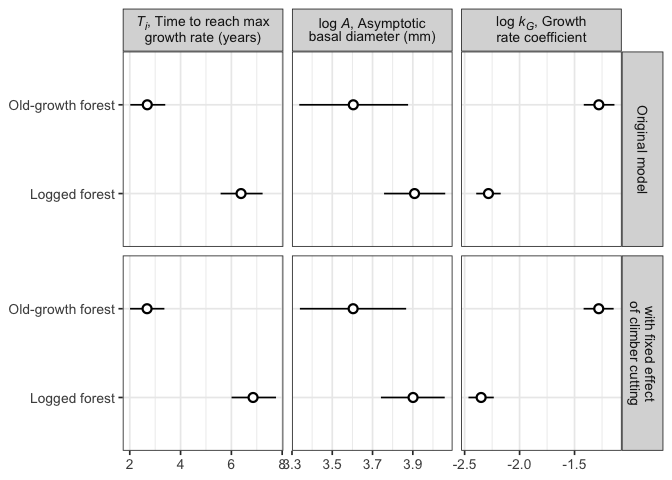
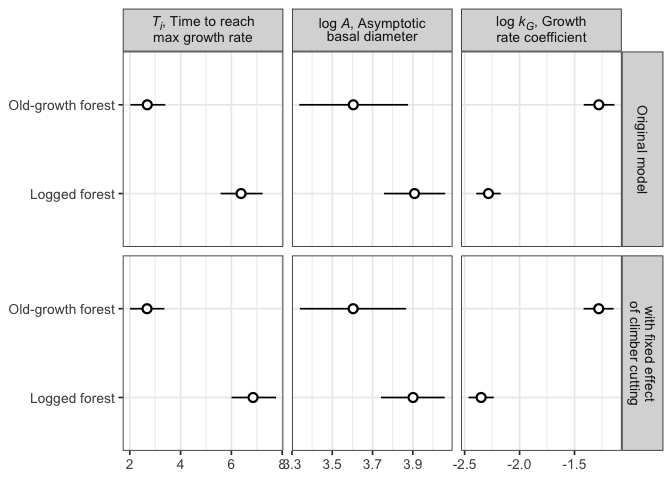
update facet labs for cc figs

Changed region(s): [[0.1875, 0.0312, 0.4062, 0.0938], [0.4375, 0.0625, 0.6562, 0.0938]]

diff --git a/code/notebooks/2025-09-09_supp-climber-cutting.md b/code/notebooks/2025-09-09_supp-climber-cutting.md
@@ -1,6 +1,6 @@
 # Supplementary Information for the climber cutting plots
 eleanorjackson
-2026-02-02
+2026-02-06
 
 ``` r
 library("tidyverse")
@@ -65,9 +65,9 @@ my_coef_tab <-
              .default = forest_type
              )) %>% 
   mutate(name = case_when(
-    parameter == "logA" ~ "log <i>A</i>, Asymptotic<br>basal diameter (mm)",
+    parameter == "logA" ~ "log <i>A</i>, Asymptotic<br>basal diameter",
     parameter == "logkG" ~ "log <i>k<sub>G</sub></i>, Growth<br>rate coefficient",
-    parameter == "Ti" ~ "<i>T<sub>i</sub></i>, Time to reach max<br>growth rate (years)"
+    parameter == "Ti" ~ "<i>T<sub>i</sub></i>, Time to reach<br>max growth rate"
   ))
 ```
 
@@ -131,10 +131,10 @@ my_coef_tab_survival <-
   mutate(forest_type = str_remove(forest_type, "type")) %>% 
   mutate(forest_type =
            case_when(
-             forest_type == "primary" ~ "Old-growth forest",
-             forest_type == "logged" ~ "Logged forest",
-             forest_type == "mean" ~ "Basal diameter",
-             forest_type == "cut1" ~ "Climber cutting",
+             forest_type == "primary" ~ "log &lambda;, Old-growth forest",
+             forest_type == "logged" ~ "log &lambda;, Logged forest",
+             forest_type == "mean" ~ "&beta;, Basal diameter",
+             forest_type == "cut1" ~ "&beta;, Climber cutting",
              .default = forest_type
              )) 
 ```
@@ -150,7 +150,8 @@ my_coef_tab_survival %>%
   coord_flip() +
   facet_grid(rows = vars(model), 
              scales = "fixed") +
-  theme(strip.text = element_markdown())
+  theme(strip.text = element_markdown(),
+        axis.text.y = element_markdown())
 ```
 
 ![](figures/2025-09-09_supp-climber-cutting/unnamed-chunk-12-1.png)
